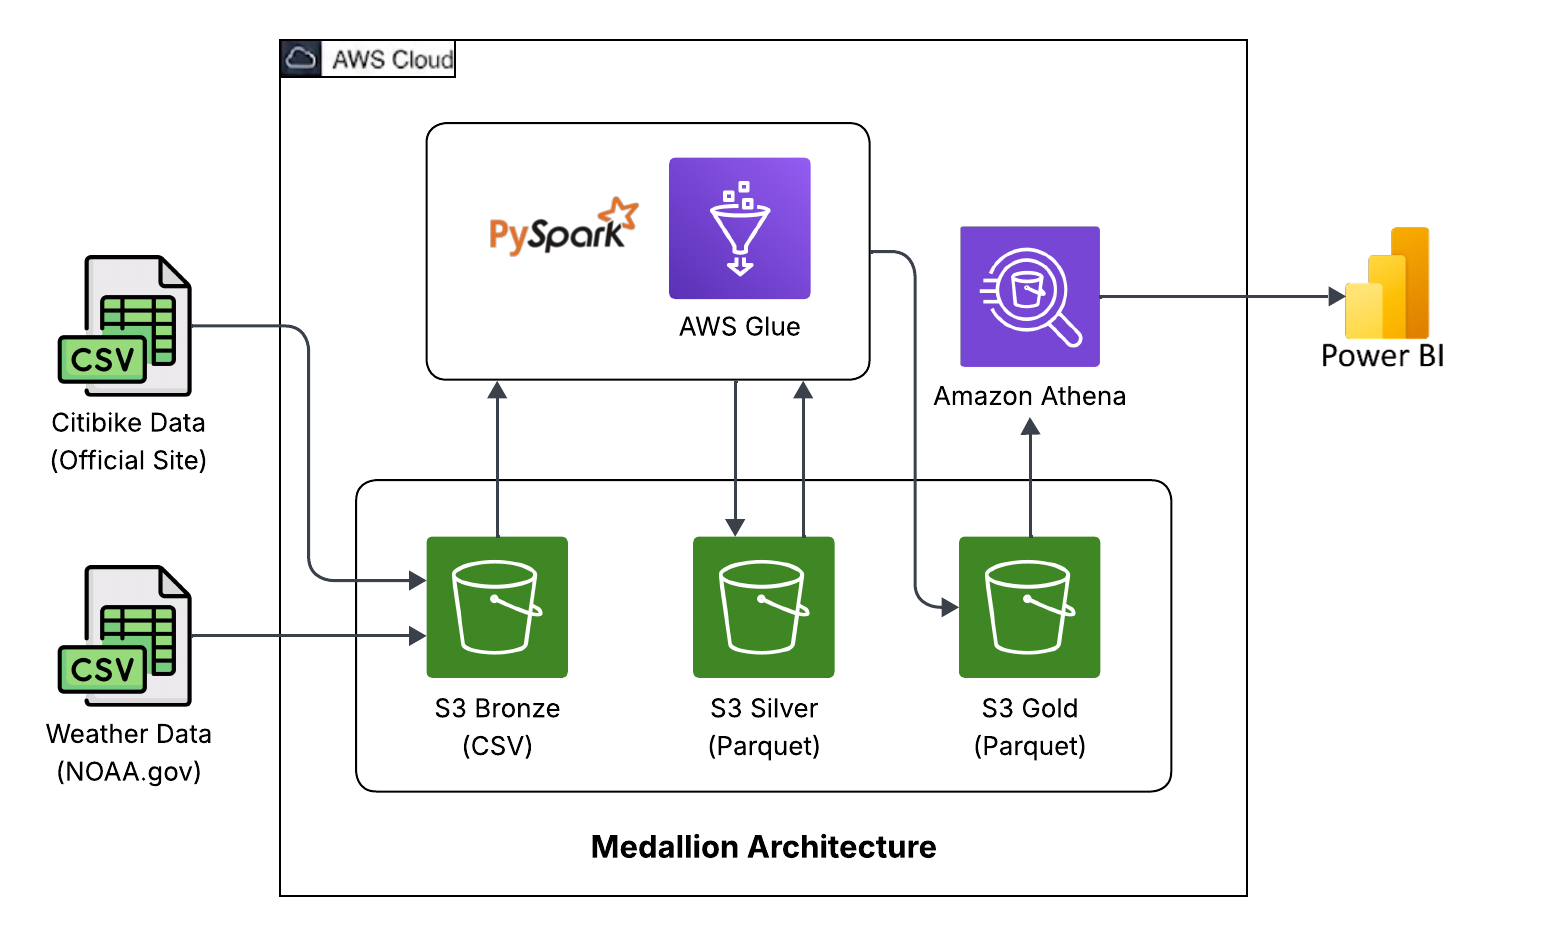
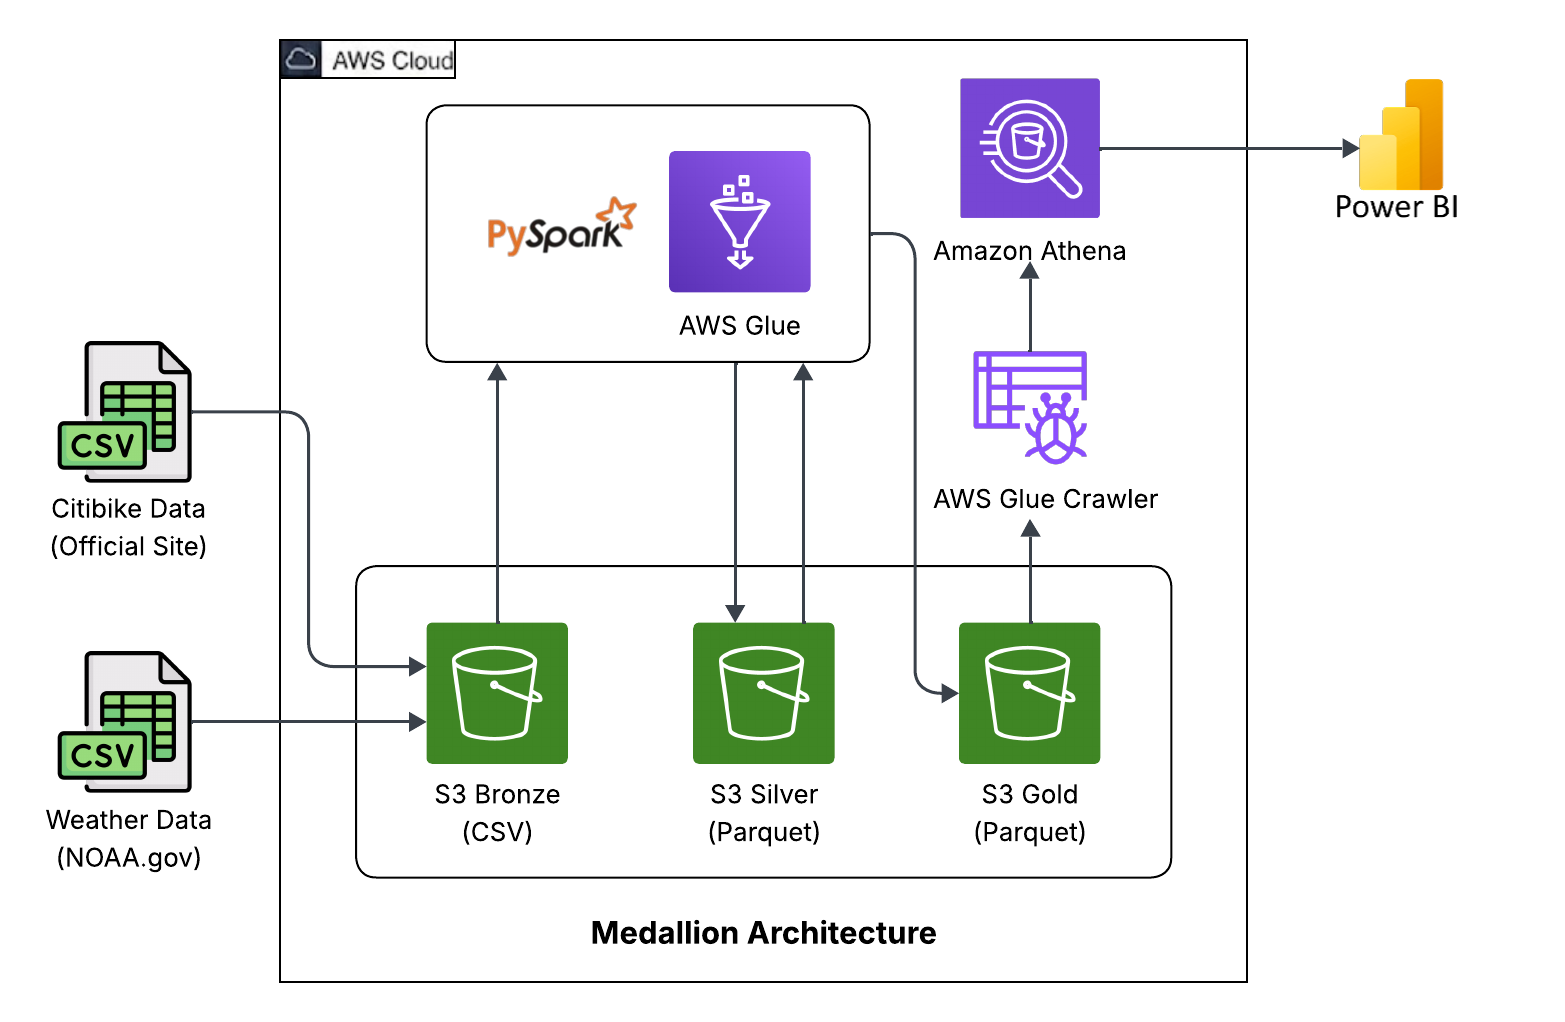
updated readme

Changed region(s): [[0.0309, 0.031, 0.9284, 0.9605], [0.0619, 0.2479, 0.0928, 0.2788]]

diff --git a/README.md b/README.md
@@ -1,12 +1,12 @@
 # 🚲 CitiBike Demand Optimization
 
-An end-to-end cloud-based data analytics and visualization platform built using NYC CitiBike trip data integrated with historical weather data to analyze demand patterns and weather impact on ridership.
+An end-to-end cloud-based data analytics and visualization platform built using NYC CitiBike trip data, enriched with selected weather parameters to analyze demand patterns and usage behavior.
 
 ---
 
 ## Project Overview
 
-The CitiBike Demand Optimization project focuses on building an end-to-end, cloud-based data analytics and visualization platform using NYC CitiBike trip data integrated with historical weather data. The objective is to analyze bike usage patterns, understand the impact of weather on ridership, and enable data-driven demand optimization through scalable analytics.
+The CitiBike Demand Optimization project focuses on building an end-to-end, cloud-based data analytics and visualization platform using NYC CitiBike trip data, enriched with selected weather parameters. The objective is to analyze bike usage patterns, user behavior, temporal demand trends, and operational factors, while incorporating weather conditions as an additional context to support data-driven demand optimization.
 
 The project follows a modern serverless data architecture on AWS, leveraging distributed ETL processing, optimized storage formats, query-on-demand analytics, and BI dashboards.
 
@@ -24,13 +24,18 @@ In this project, S3 stores raw CitiBike and weather datasets and also holds clea
 AWS Glue is a fully managed serverless service for large-scale data extraction, transformation, and loading.  
 In this project, Glue runs PySpark jobs to clean raw data, merge datasets, perform feature engineering, and generate aggregated analytical tables.
 
+**AWS Glue Crawler**  
+AWS Glue Crawler automatically discovers data schemas and updates the AWS Glue Data Catalog.  
+In this project, crawlers are used to catalog Silver and Gold layer Parquet datasets in S3, enabling seamless querying through Amazon Athena.
+
 **Amazon Athena**  
 Amazon Athena is a serverless, interactive query service that allows SQL queries directly on data stored in S3.  
-In this project, Athena is used to query curated, partitioned datasets efficiently without data movement.
+In this project, Athena is used to query curated and aggregated datasets registered in the Glue Data Catalog without data movement.
 
 **AWS IAM**  
 AWS Identity and Access Management (IAM) enables secure authentication and fine-grained authorization for AWS resources.  
-In this project, IAM roles and policies control access to S3, Glue, Athena, and Power BI connectivity.
+In this project, IAM roles and policies control access to S3, Glue jobs, Glue crawlers, Athena queries, and Power BI connectivity.
+
 
 ### Analytics & Visualization
 - Power BI – Interactive dashboards and reporting  
@@ -68,13 +73,13 @@ This project uses two datasets to analyze CitiBike demand and its dependency on 
 Based on the initial exploratory analysis, the following observations were made:
 
 ### Raw Dataset Size 
-- **Raw Citibike_2025 Data Size(CSV):** 5.38 GBs
-- **Raw Weather_2025 Data Size:** 57 KBs
+- **Raw Citibike 2024 Data Size(CSV):** 8.06 GBs
+- **Raw Weather 2024 Data Size:** 57 KBs
 
 ### Merged Dataset Size(Parquet) 
-- **Total Records:** 29.48 Million ride records  
-- **Total Columns:** 41 columns after merging CitiBike and weather datasets  
-- **File Size:** 1.65 GBs, confirming large-scale historical data  
+- **Total Records:** 44.30 Million ride records  
+- **Total Columns:** 38 columns after merging CitiBike and weather datasets  
+- **File Size:** 2.46 GBs, confirming large-scale historical data  
 
 ---
 
@@ -164,6 +169,7 @@ This stage processes raw CitiBike and weather data using AWS Glue (PySpark) and 
 - Filtered trips with unrealistic durations  
 - Restricted trips to valid New York City geographic boundaries  
 - Handled missing and sentinel weather values  
+- Raw citibike data columns: 13 and raw weather data columns: 28
 
 ---
 
@@ -171,6 +177,7 @@ This stage processes raw CitiBike and weather data using AWS Glue (PySpark) and 
 - Integrated CitiBike trip data with daily weather data using `trip_date`  
 - Retained only records with valid and usable weather observations  
 - Created a unified dataset combining ride behavior with environmental conditions  
+- The merged data columns: 24
 
 ---
 
@@ -180,7 +187,7 @@ This stage processes raw CitiBike and weather data using AWS Glue (PySpark) and 
 - Generated analytical flags: weekend, rush hour, holiday, round trip  
 - Created weather event indicators (rain, snow, fog, thunder, hail)  
 - Categorized temperature and precipitation into business-friendly groups  
-
+- Final Silver data columns: 38
 ---
 
 The final output is stored in Amazon S3 as Parquet files.
@@ -189,61 +196,90 @@ The final output is stored in Amazon S3 as Parquet files.
 
 ## 5. Initial Merged Data Dictionary (Pre-Transformation)
 
+<details>
+<summary><strong>📘 Click to expand full data dictionary</strong></summary>
+
 | Sr No | Column Name | Description | Data Type | Sample Values |
-|-----|------------|-------------|----------|---------------|
-| 1 | ride_id | Unique identifier for each ride | String | BF31E940F7D80958 |
-| 2 | rideable_type | Type of bike used | String | electric_bike, classic_bike |
-| 3 | started_at | Ride start timestamp | Datetime | 2024-07-11 08:45:00 |
-| 4 | ended_at | Ride end timestamp | Datetime | 2024-07-11 09:05:00 |
-| 5 | start_station_name | Start station name | String | N 6 St & Bedford Ave |
-| 6 | start_station_id | Start station ID | String | 5379.1 |
-| 7 | end_station_name | End station name | String | Broadway & Berry St |
-| 8 | end_station_id | End station ID | String | 5164.05 |
-| 9 | start_lat | Start latitude | Float | 40.71745 |
-| 10 | start_lng | Start longitude | Float | -73.95850 |
-| 11 | end_lat | End latitude | Float | 40.71036 |
-| 12 | end_lng | End longitude | Float | -73.96530 |
-| 13 | member_casual | Rider membership type | String | member, casual |
-| 14 | trip_date | Ride date | Date | 2024-07-11 |
-| 15 | station | Weather station number | String | 72505394728 |
-| 16 | latitude | Weather station latitude | Float | 40.77898 |
-| 17 | longitude | Weather station longitude | Float | -73.96925 |
-| 18 | elevation | Station elevation (meters) | Float | 42.7 |
-| 19 | name | Station name | String | NY CITY CENTRAL PARK |
-| 20 | TEMP | Mean temperature (°F) | Float | 76.2 |
-| 36 | PRCP | Precipitation | Float | 0.18 |
-| 39 | FRSHTT | Weather event flags | String | 010010 |
+|------:|------------|-------------|-----------|---------------|
+| 1 | ride_id | A unique ID assigned to each ride | String | BF31E940F7D80958, 0DF0EDCFF6452D83 |
+| 2 | rideable_type | Defines the type of bike | String | electric_bike, classic_bike |
+| 3 | started_at | Start time of the ride | Datetime | 2024-07-11 08:45:00 |
+| 4 | ended_at | End time of the ride | Datetime | 2024-07-11 09:05:00 |
+| 5 | start_station_name | Name of the start station | String | N 6 St & Bedford Ave |
+| 6 | start_station_id | Unique ID of the start station | String | 5379.1, 5869.04 |
+| 7 | end_station_name | Name of the end station | String | Broadway & Berry St |
+| 8 | end_station_id | Unique ID of the end station | String | 5164.05, 4824.03 |
+| 9 | start_lat | Latitude of ride start | Float | 40.71745169 |
+|10 | start_lng | Longitude of ride start | Float | -73.95850939 |
+|11 | end_lat | Latitude of ride end | Float | 40.71036129 |
+|12 | end_lng | Longitude of ride end | Float | -73.96530389 |
+|13 | member_casual | Rider type (member or casual) | String | member, casual |
+|14 | trip_date | Date of the ride | Date | 2024-07-11 |
+|15 | station | Weather station number | String | 72505394728 |
+|16 | latitude | Weather station latitude | Float | 40.77898 |
+|17 | longitude | Weather station longitude | Float | -73.96925 |
+|18 | elevation | Elevation above sea level (meters) | Float | 42.7 |
+|19 | name | Station / airport name | String | NY CITY CENTRAL PARK |
+|20 | TEMP | Mean daily temperature (°F × 0.1) | Float | 76.2 |
+|21 | TEMP_ATTRIBUTES | Temp observation count | Int | 24 |
+|22 | DEWP | Mean dew point temperature (°F × 0.1) | Float | 68.2 |
+|23 | DEWP_ATTRIBUTES | Dew point observation count | Int | 24 |
+|24 | SLP | Mean sea level pressure (mb × 0.1) | Float | 1016.1 |
+|25 | SLP_ATTRIBUTES | Sea level pressure obs count | Int | 20 |
+|26 | STP | Mean station pressure (mb × 0.1) | Float | 11.3 |
+|27 | STP_ATTRIBUTES | Station pressure obs count | Int | 24 |
+|28 | VISIB | Mean visibility (miles × 0.1) | Float | 9.3 |
+|29 | VISIB_ATTRIBUTES | Visibility obs count | Int | 24 |
+|30 | WDSP | Mean wind speed (knots × 0.1) | Float | 2.2 |
+|31 | WDSP_ATTRIBUTES | Wind speed obs count | Int | 22 |
+|32 | MXSPD | Max sustained wind speed (knots × 0.1) | Float | 5.1 |
+|33 | GUST | Maximum wind gust (knots × 0.1) | Float | 999.9 |
+|34 | MAX | Maximum temperature (°F × 0.1) | Float | 89.1 |
+|35 | MAX_ATTRIBUTES | Max temperature obs count | Int | — |
+|36 | MIN | Minimum temperature (°F × 0.1) | Float | 71.1 |
+|37 | MIN_ATTRIBUTES | Min temperature obs count | Int | — |
+|38 | PRCP | Total precipitation (inches × 0.01) | Float | 0.18 |
+|39 | PRCP_ATTRIBUTES | Precipitation source indicator | String | G |
+|40 | SNDP | Snow depth (inches × 0.1) | Float | 999.9 |
+|41 | FRSHTT | Weather event flags (Fog, Rain, Snow, Hail, Thunder, Tornado) | String | 010010 |
+
+</details>
 
 ---
 
-## 6. Gold Layer – Aggregation Tables for Analytics
+## Gold Layer – Star Schema (Facts & Dimensions)
 
-In this stage, enriched Silver-layer data is aggregated into multiple Gold-layer tables optimized for analytics and dashboard consumption.
+The Gold layer implements a star schema optimized for analytics and BI consumption.  
+Cleaned Silver data is transformed into dimension tables and a central fact table using AWS Glue (PySpark).
 
-### 6.1 Fact Table Creation
-- Central fact table with ride-level analytical attributes  
-- Partitioned by year and month  
+### Dimensions Created
+- **dim_date:** Date attributes including year, month, weekday, season, and weekend flag (partitioned by year, month)
+- **dim_member:** Rider category (member / casual) with surrogate keys
+- **dim_station:** Unified station dimension for both start and end stations
+- **dim_bike_type:** Bike type dimension (classic / electric)
+- **dim_temperature:** Temperature category dimension derived from weather data
 
-### 6.2 Time-Based Aggregations
-- Hourly aggregation for peak demand  
-- Daily aggregation for trend analysis  
+Unknown records are handled using default surrogate keys (`-1`) to maintain referential integrity.
 
-### 6.3 Bike & Weather-Based Aggregations
-- Bike type-based aggregation  
-- Temperature category-based aggregation  
+---
 
-### 6.4 Station-Level Aggregation
-- Trips started and ended per station  
-- Total station activity  
+### Fact Table: fact_trips
+- Stores ride-level metrics and foreign keys to all dimensions
+- Includes trip distance, duration, start hour, weather, rush hour and weekend flags
+- Partitioned by **year and month** to enable efficient query pruning
+- Uses **snappy compression** for optimized storage and performance
 
-### 6.5 Summary Metrics
-- Total trips  
-- Average trip distance  
-- Average trip duration  
-- Average temperature  
-- Peak usage hour  
+---
 
-All Gold-layer outputs are stored using a run-based (`run_id`) strategy.
+### Design Highlights
+- Surrogate keys generated using window functions for all dimensions
+- Date key (`YYYYMMDD`) created once and reused across the model
+- Dynamic partition overwrite enabled for safe incremental loads
+- Star schema structure enables fast joins and scalable BI queries
+
+---
+
+This Gold layer serves as the single source for analytics, dashboards, and future advanced use cases.
 
 ---
 
@@ -282,27 +318,21 @@ Analyzes rush hour demand.
 - Rush Hour vs Non-Rush Hour Usage by User Type  
 
 ### KPI 6: Weekend Usage Ratio
-Compares weekday and weekend usage.
+Givves the usage by user type.
 
 **Supporting Charts:**  
 - Weekend Usage Distribution  
 
----
+### KPI 7: Seasonal Usage Patterns
+Analyzes variation in average daily trips across seasons and user types.  
+Highlights seasonal demand trends and differences between member and casual riders.
 
-## 8. Infrastructure as Code (Terraform) & CI/CD Implementation
-
-### Infrastructure as Code (Terraform)
-- Provisioned S3 buckets for raw, silver, and gold layers  
-- Managed IAM roles for Glue and Athena  
-
-### CI/CD Pipeline (GitHub Actions)
-- Automated Glue job deployments  
-- Triggered pipelines on code updates  
-
-Terraform and CI/CD together enable a fully automated, reproducible, and production-ready data engineering workflow.
+**Supporting Charts:**  
+- Average Daily Trips by Season and Member Type
 
 ---
-## 9. Why Star Schema Pattern?
+
+## 8. Why Star Schema Pattern?
 
 <p align="center">
   <img src="images/datamodel.jpeg" width="850"/>
@@ -311,63 +341,43 @@ Terraform and CI/CD together enable a fully automated, reproducible, and product
   <b>Figure:</b> Star-Schema Based Data Model
 </p>
 
-### Why We Used a Star Schema ?
-- We designed our data model using a star schema because it provides the best balance between performance, scalability, and   analytical clarity for large, time-series data like CitiBike trips. With a single central fact table and clearly defined dimension tables, star schema ensures fast query performance, accurate aggregations, and simple, intuitive analysis in Power BI.
+## 8. Why We Used a Star Schema
 
-The Real Reasoning:
-### 1.Our Data Is Analytical, Not Transactional
+The data model was designed using a star schema to achieve high performance, scalability, and analytical clarity for large, time-series CitiBike data. With a single central fact table and well-defined dimensions, the star schema enables fast queries, accurate aggregations, and intuitive analysis in Power BI.
 
-- “Our use case is analytics and decision-making, not transactional updates.”
+### Key Reasons
 
-- We are analyzing:
-  - Trip counts
-  - Usage patterns
-  - Weather impact
-  - User behavior
+- **Analytics-Focused Use Case:**  
+  The project is built for analysis and decision-making (trip trends, user behavior, weather impact), not transactional updates, making star schema ideal for OLAP workloads.
 
-- Not inserting/updating individual records
-- Star schema is purpose-built for analytics (OLAP).
+- **Natural Data Fit:**  
+  A central `fact_trips` table with dimensions such as date, station, member type, bike type, and temperature aligns naturally with the problem domain.
 
-### 2.Central Fact, Multiple Dimensions Fit Our Problem Perfectly
-- Our model naturally fits:
-  - Fact table → fact_trips
-  - Measures: trips, duration, rush hour, stress
-  - Dimensions:
-      - Date
-      - Station
-      - Member type
-      - Bike type
-      - Temperature
-It is not forced design — it’s natural design.
+- **Performance Optimization:**  
+  Star schema reduces join complexity, improves columnar compression, and enables faster query execution and DAX evaluation, directly improving dashboard performance.
 
-### 3.Performance Was a Major Driver
-- We are working with large datasets coming from s3, so query performance was critical.
-- Star schema helps because:
-   - Fewer joins
-   - Simple joins (dimension → fact)
-   - Efficient columnar compression (VertiPaq)
+- **Clean & Accurate Analytics:**  
+  Eliminates many-to-many relationships and ambiguous filter paths, ensuring correct totals, no double counting, and predictable filter behavior.
 
-Faster DAX evaluation
-- This directly solved:
-   - Slow visuals
-   - Long refresh times
-   - Aggregation delays
+- **Ease of Visualization & Collaboration:**  
+  Simple structure makes the model easy to understand, reduces errors, and accelerates dashboard development.
 
-### 4.Avoided Complex Relationships and Ambiguity
-- Star schema eliminates many-to-many relationships and ambiguous filter paths.
-- Why this matters:
-  - Accurate totals
-  - No double counting
-  - Predictable filter behavior
-  - Cleaner DAX
-
-### 5.Simpler for Visualization & Collaboration
-- Star schema makes the model easier to understand and use, especially for visualization teams.
-- Benefits:
-  - Clear fields
-  - No confusing joins
-  - Faster development
-  - Lower error rate
+Overall, the star schema provides a robust, scalable foundation for high-performance analytics and BI reporting.
 
 ---
 
+## 9. Infrastructure as Code (Terraform) & CI/CD
+
+### Infrastructure as Code (Terraform)
+- Terraform manages AWS infrastructure including S3 buckets, IAM roles, Glue jobs, workflows, and crawlers  
+- Infrastructure changes are applied automatically based on updates to Terraform code, ensuring consistency and repeatability  
+
+### CI/CD Pipeline (GitHub Actions)
+- Separate pipelines are implemented for Terraform infrastructure and Glue ETL scripts  
+- Path-based triggers ensure independent execution for infrastructure changes and ETL code updates  
+- Glue scripts are validated, deployed to Amazon S3, and Glue workflows are triggered safely  
+- Manual pipeline triggers are supported for controlled infrastructure deployments  
+
+Together, Terraform and CI/CD provide a **fully automated, reliable, and production-aligned data pipeline**.
+
+---
